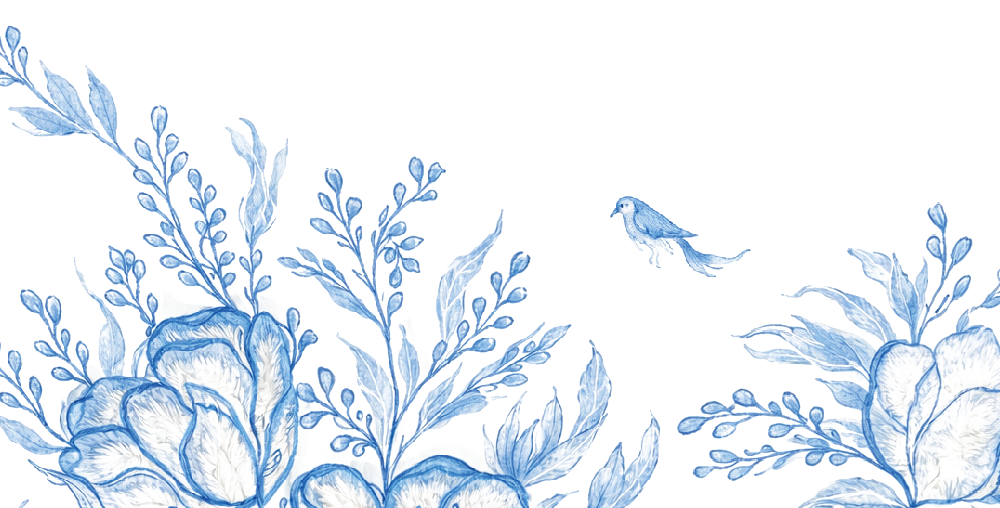
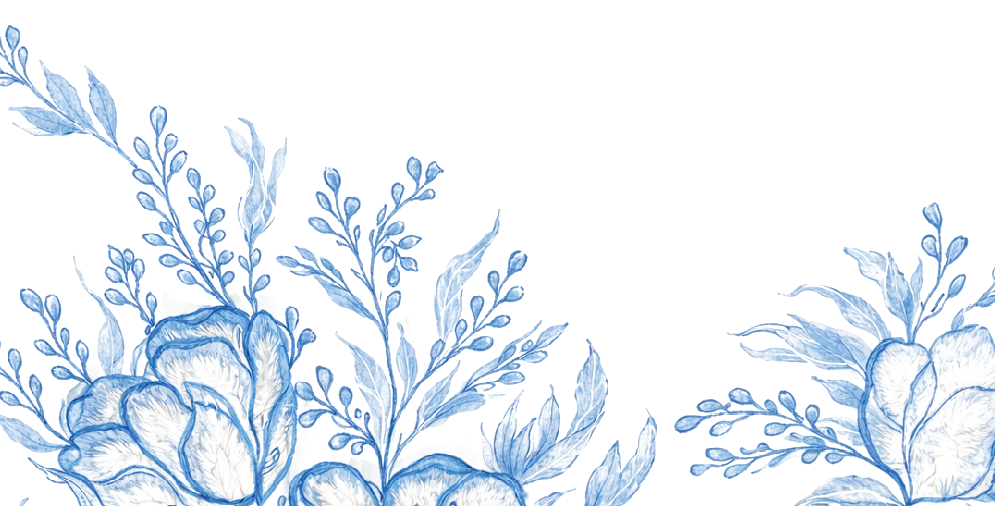
Update

diff --git a/dist/css/main.css b/dist/css/main.css
@@ -434,7 +434,7 @@ header {
   margin: 15% 0;
 }
 .invite01 .content .divider img {
-  max-width: 81px;
+  max-width: 104px;
   width: 100%;
   height: auto;
 }
@@ -478,7 +478,7 @@ header {
     font-size: 6vw;
   }
   .invite01 .content .divider img {
-    max-width: 16.2vw;
+    max-width: 20.8vw;
   }
   .invite01 .content .venue-name {
     font-size: 11.6vw;
@@ -938,7 +938,7 @@ header {
   margin-bottom: 5%;
 }
 .rsvp .content .rsvp-form .divider img {
-  max-width: 50px;
+  max-width: 88px;
   width: 100%;
   height: auto;
 }
@@ -1104,7 +1104,7 @@ header {
     font-size: 2.4vw;
   }
   .rsvp .content .rsvp-form .divider img {
-    max-width: 10vw;
+    max-width: 17.6vw;
   }
   .rsvp .content .rsvp-form .button-group .radio-label {
     font-size: 1.92vw;
@@ -1214,7 +1214,7 @@ header {
 }
 .end .content {
   width: 100%;
-  background-image: url("../../assets/images/hero_bg_bottom.png");
+  background-image: url("../../assets/images/end_bg.png");
   background-repeat: no-repeat;
   background-size: contain;
   background-position: bottom;

diff --git a/assets/scss/sections/_rsvp.scss b/assets/scss/sections/_rsvp.scss
@@ -39,7 +39,7 @@
             .divider {
                 margin-bottom: 5%;
                 img {
-                    max-width: 50px;
+                    max-width: 88px;
                     width: 100%;
                     height: auto;
                 }
@@ -247,7 +247,7 @@
 
                 .divider {
                     img {
-                        max-width: calc((50 / 500) * 100vw);
+                        max-width: calc((88 / 500) * 100vw);
                     }
                 }
 

diff --git a/assets/scss/sections/_invite01.scss b/assets/scss/sections/_invite01.scss
@@ -44,7 +44,7 @@
         .divider {
             margin: 15% 0;
             img {
-                max-width: 81px;
+                max-width: 104px;
                 width: 100%;
                 height: auto;
             }
@@ -96,7 +96,7 @@
     
             .divider {
                 img {
-                    max-width: calc((81 / 500) * 100vw);
+                    max-width: calc((104 / 500) * 100vw);
                 }
             }
             .venue-name {

diff --git a/invitationen.html b/invitationen.html
@@ -212,7 +212,7 @@
               </p>
             </div>
             <div class="divider">
-              <img src="assets/images/divider_bird_01.png" data-animate="flip-vertical-left" alt="">
+              <img src="assets/images/divider_bird.png" data-animate="flip-vertical-left" alt="">
             </div>
 
             <div class="form-group confirm">

diff --git a/invitationvi.html b/invitationvi.html
@@ -210,7 +210,7 @@
               </p>
             </div>
             <div class="divider">
-              <img src="assets/images/divider_bird_01.png" data-animate="flip-vertical-left" alt="">
+              <img src="assets/images/divider_bird.png" data-animate="flip-vertical-left" alt="">
             </div>
 
             <div class="form-group confirm">

diff --git a/assets/scss/sections/_end.scss b/assets/scss/sections/_end.scss
@@ -5,7 +5,7 @@
     width: 100%;
     .content {
         width: 100%;
-        background-image: url('../../assets/images/hero_bg_bottom.png');
+        background-image: url('../../assets/images/end_bg.png');
         background-repeat: no-repeat;
         background-size: contain;
         background-position: bottom;
